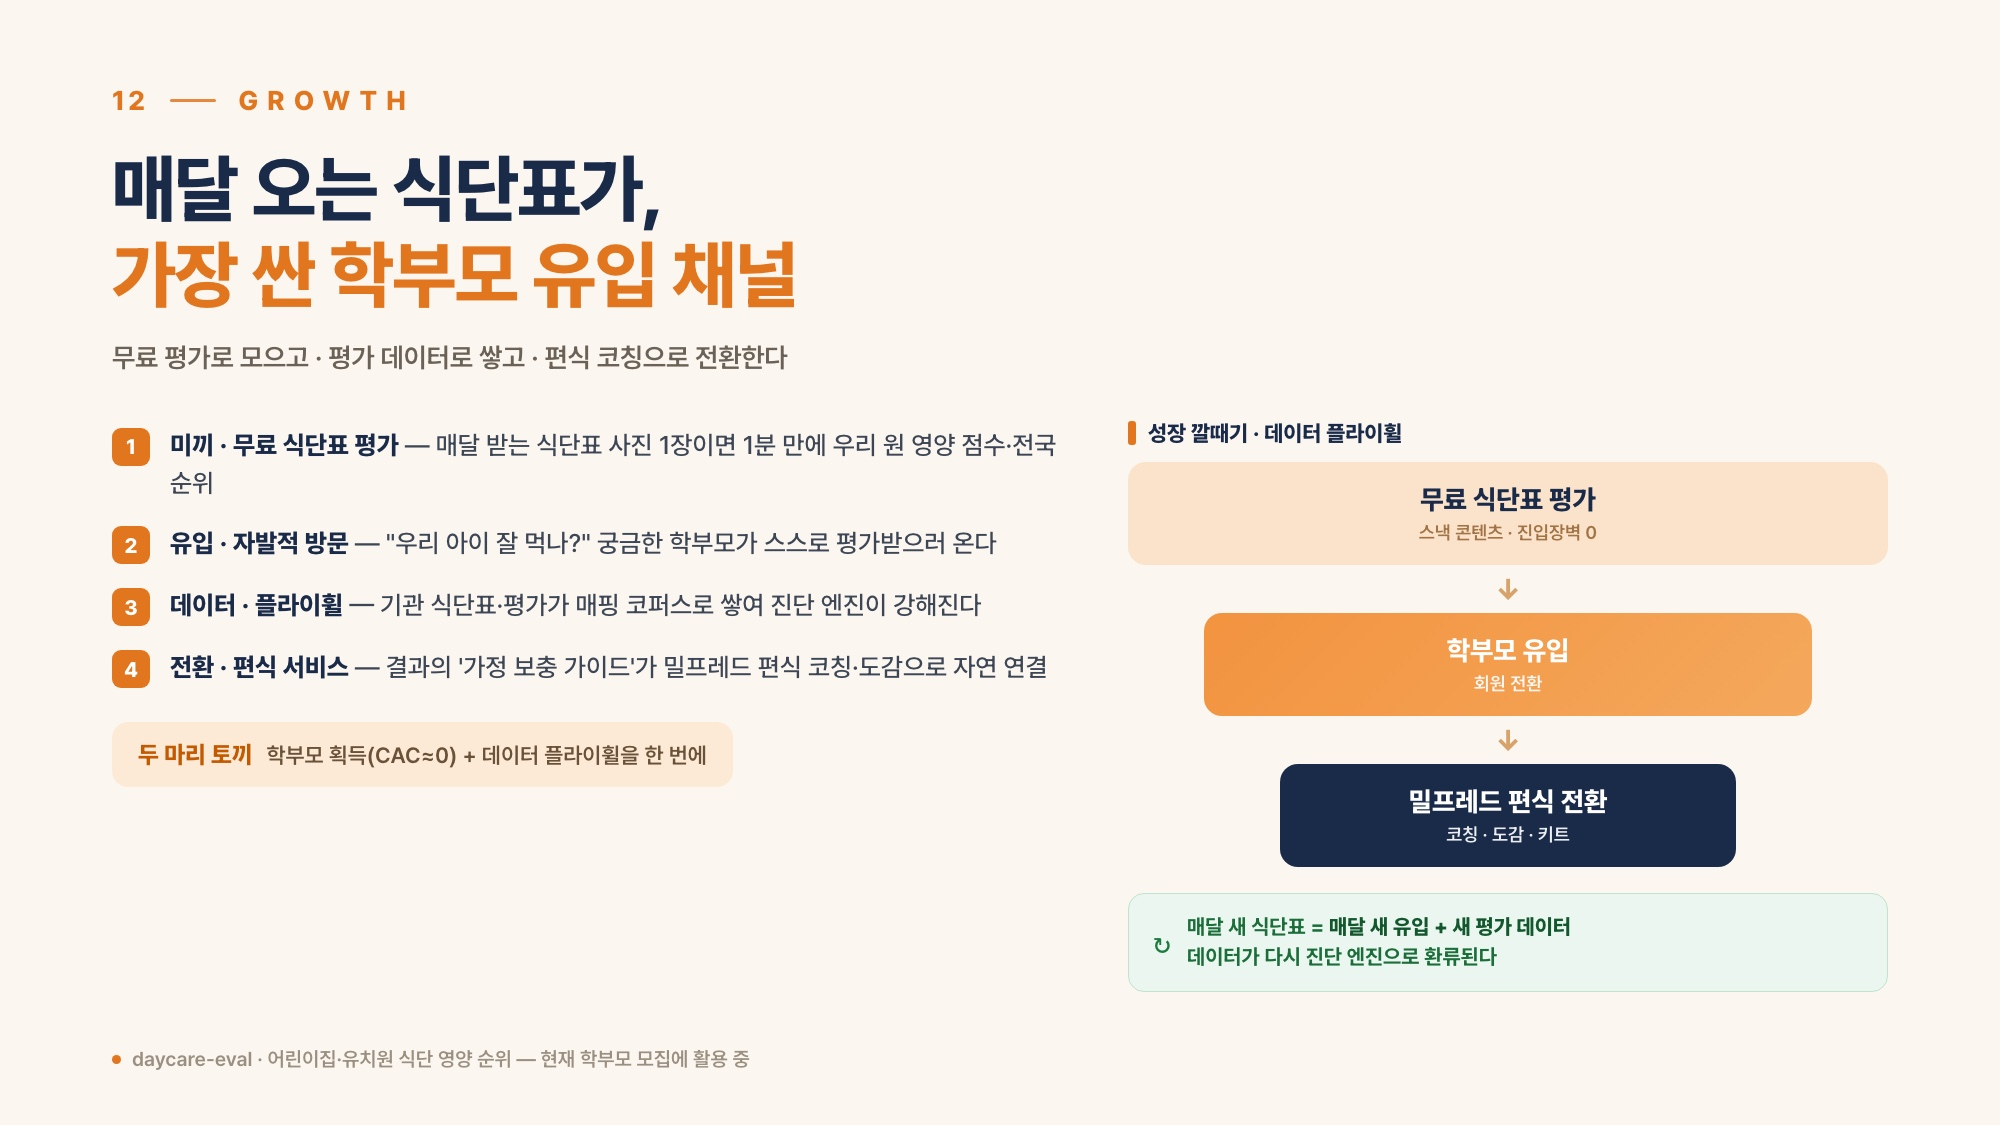
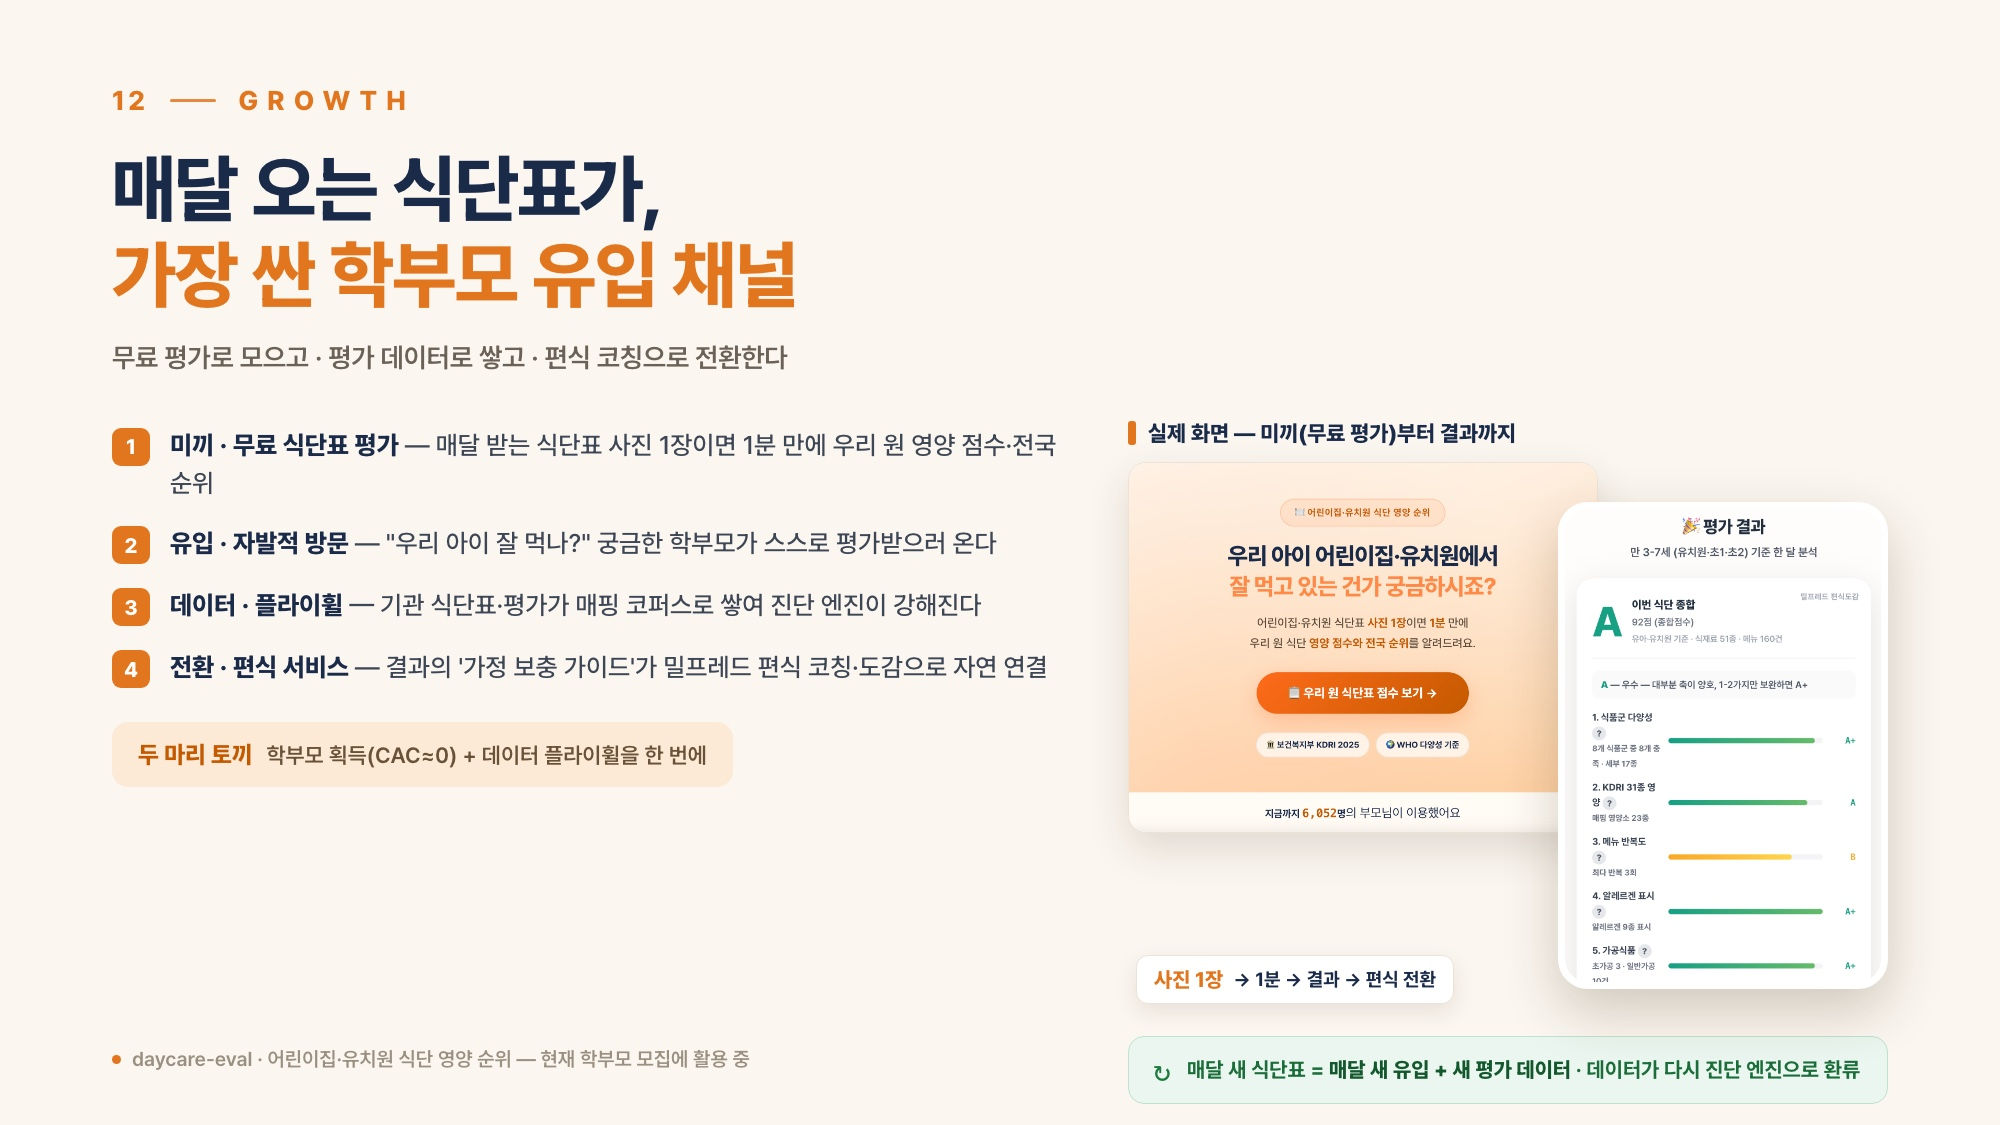
피치덱 GROWTH(12): 퍼널 다이어그램 → 실제 daycare-eval 화면 쇼케이스로 교체
- 히어로(어린이집·유치원 식단 영양 순위·6,052명 이용) + 평가결과(종합 A 92점·7축) 실제 스크린샷 콜라주
- "사진 1장 → 1분 → 결과 → 편식 전환" 플로우 태그 유지
- pitch.pdf 재생성

diff --git a/_slidegen/slide-funnel.html b/_slidegen/slide-funnel.html
@@ -2,15 +2,13 @@
 <link rel="stylesheet" href="https://cdn.jsdelivr.net/gh/orioncactus/pretendard@v1.3.9/dist/web/variable/pretendardvariable-dynamic-subset.min.css">
 <link rel="stylesheet" href="_slide.css">
 <style>
-  .funnel{display:flex;flex-direction:column;align-items:center;gap:0;margin-top:10px}
-  .fbar{border-radius:18px;padding:22px 26px;text-align:center;width:100%}
-  .fbar .t{font-size:27px;font-weight:800;line-height:1.15}
-  .fbar .s{font-size:18.5px;font-weight:600;margin-top:6px;opacity:.92}
-  .f1{background:#FBE3CB;color:#1A2B4A;width:100%}
-  .f1 .s{color:#9A6A3A}
-  .f2{background:linear-gradient(135deg,#F2933F,#F4A85C);color:#fff;width:80%}
-  .f3{background:#1A2B4A;color:#fff;width:60%}
-  .farr{color:#D8A36A;font-size:30px;font-weight:800;line-height:1;margin:9px 0}
+  .shots{position:relative;height:548px;margin-top:6px}
+  .shot{position:absolute;display:block;background:#fff}
+  .shot.hero{top:0;left:0;width:470px;border-radius:18px;border:1.5px solid #ECE3D6;box-shadow:0 16px 42px rgba(60,40,15,.14)}
+  .shot.result{top:40px;right:0;width:330px;border-radius:30px;border:7px solid #fff;box-shadow:0 22px 54px rgba(60,40,15,.22);z-index:2}
+  .flowtag{position:absolute;left:8px;bottom:6px;z-index:3;display:flex;align-items:center;gap:10px;background:#fff;border:1.5px solid #ECE3D6;border-radius:12px;padding:11px 17px;box-shadow:0 8px 22px rgba(60,40,15,.10)}
+  .flowtag .a{font-size:21px;font-weight:800;color:#E2761E}
+  .flowtag .b{font-size:19px;font-weight:700;color:#1A2B4A}
   .loop{display:flex;align-items:center;gap:16px;margin-top:26px;background:#EAF6EF;border:1.6px solid #BFE3CD;border-radius:16px;padding:18px 24px}
   .loop .ic{font-size:30px;color:#1B7A3D;line-height:1}
   .loop .tx{font-size:21px;font-weight:700;color:#1B6E3A;line-height:1.45}
@@ -36,15 +34,13 @@
     </div>
 
     <div class="colR">
-      <div class="rtag"><span class="bar"></span>성장 깔때기 · 데이터 플라이휠</div>
-      <div class="funnel">
-        <div class="fbar f1"><div class="t">무료 식단표 평가</div><div class="s">스낵 콘텐츠 · 진입장벽 0</div></div>
-        <div class="farr">↓</div>
-        <div class="fbar f2"><div class="t">학부모 유입</div><div class="s">회원 전환</div></div>
-        <div class="farr">↓</div>
-        <div class="fbar f3"><div class="t">밀프레드 편식 전환</div><div class="s">코칭 · 도감 · 키트</div></div>
+      <div class="rtag"><span class="bar"></span>실제 화면 — 미끼(무료 평가)부터 결과까지</div>
+      <div class="shots">
+        <img class="shot hero" src="img/daycare-hero.png" alt="어린이집·유치원 식단 영양 순위 — 사진 1장이면 1분, 지금까지 6,052명 이용">
+        <img class="shot result" src="img/daycare-result.png" alt="평가 결과 — 이번 식단 종합 A 92점, 7축 영양 분석">
+        <div class="flowtag"><span class="a">사진 1장</span><span class="b">→ 1분 → 결과 → 편식 전환</span></div>
       </div>
-      <div class="loop"><span class="ic">↻</span><span class="tx">매달 새 식단표 = <b>매달 새 유입 + 새 평가 데이터</b><br>데이터가 다시 진단 엔진으로 환류된다</span></div>
+      <div class="loop"><span class="ic">↻</span><span class="tx">매달 새 식단표 = <b>매달 새 유입 + 새 평가 데이터</b> · 데이터가 다시 진단 엔진으로 환류</span></div>
     </div>
   </div>
 